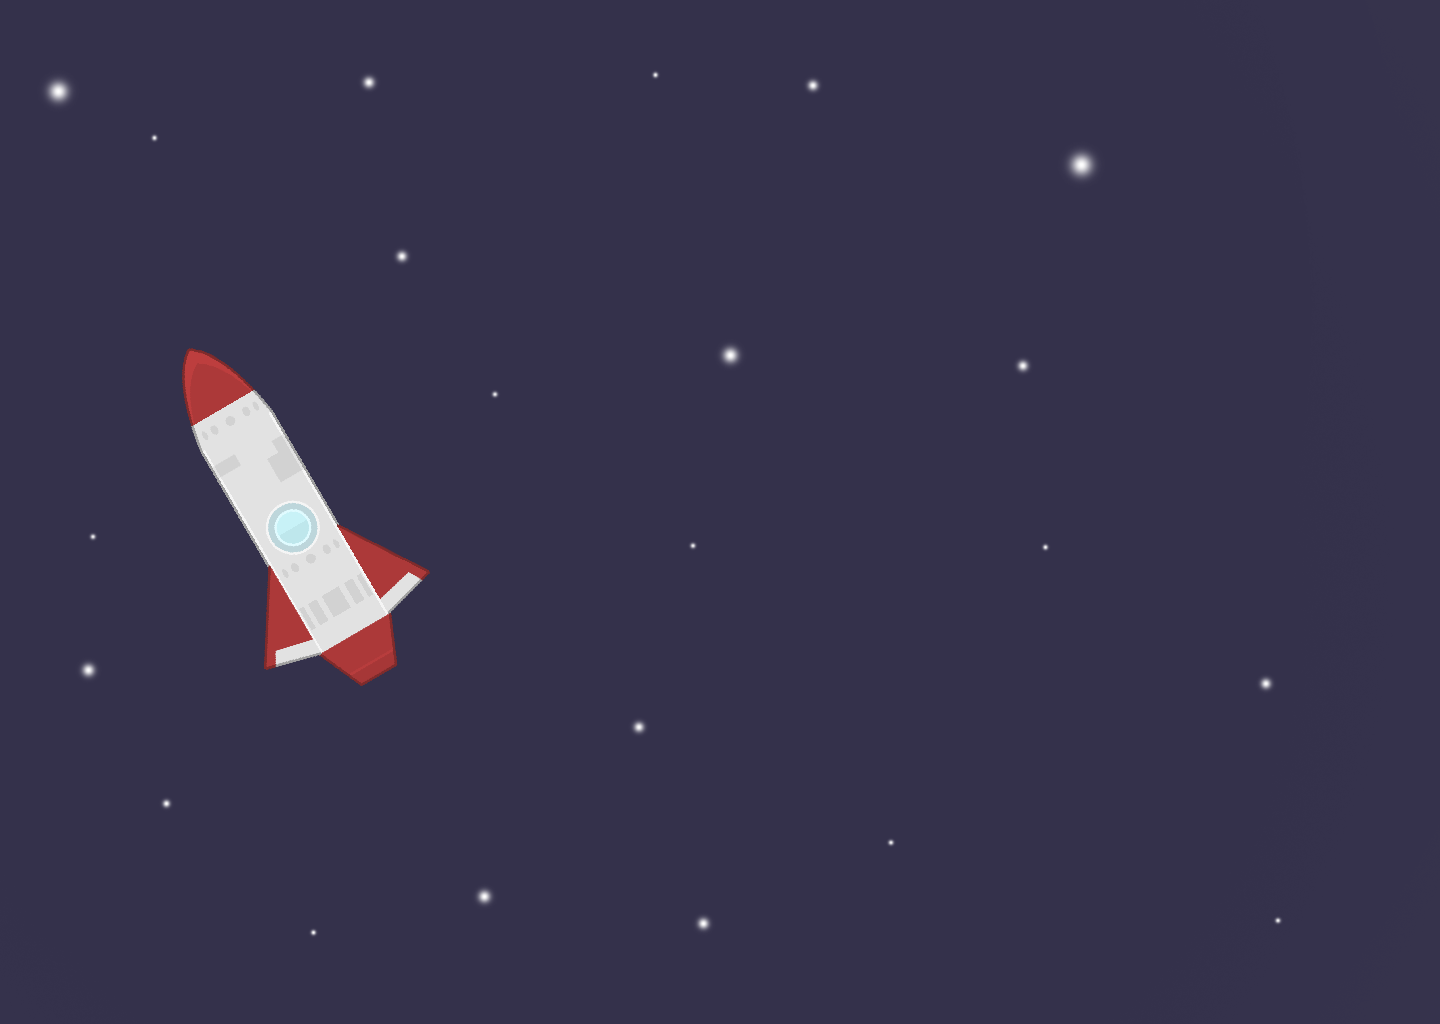
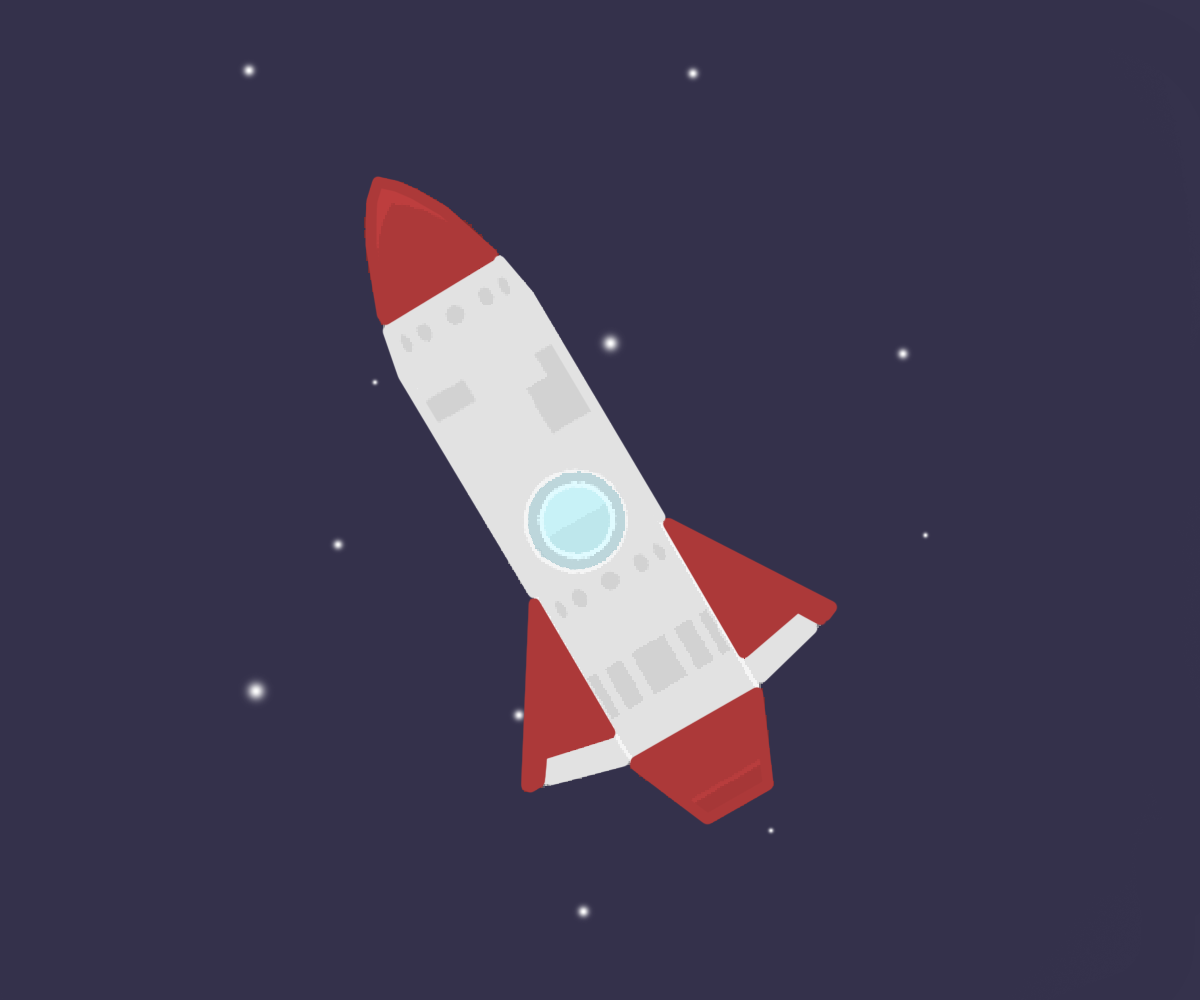
página de login implementada

diff --git a/frontend/src/pages/Login/index.js b/frontend/src/pages/Login/index.js
@@ -1,0 +1,70 @@
+import React, { useState } from 'react'
+import { Link, useHistory } from 'react-router-dom'
+
+import api from '../../services/api'
+import Headers from '../../utils/components/header'
+
+// basta importar o css que já se aplica
+import './styles.css'
+
+//import logoImg from '../../assets/logo.svg'
+import rocket from '../../assets/rocket.png'
+
+import utils from '../../utils'
+
+export default function Login() {
+    const [email, setEmail] = useState('')
+    const [senha, setSenha] = useState('')
+    const history = useHistory()
+
+    async function handleLogin(e) {
+        e.preventDefault()
+
+        if (!email || !senha) {
+            alert('Digite email e senha')
+            return
+        }
+
+
+        try {
+            const response = await api.post('login', { email, senha })
+        
+        
+            localStorage.setItem('email', email)
+            localStorage.setItem('token', response.data.token)
+
+            history.push('/meu_perfil')
+        } catch (error) {
+            alert('Email ou senha incorretos')
+        }
+        
+
+    }
+
+    return (
+        // jsx aqui
+        <div >
+
+            <Headers tipo='vazio'></Headers>
+            <img className='rocket' src={rocket} alt='supermoon'></img>
+
+            <aside className='loginContainer'>
+                <form onSubmit={handleLogin}>
+                    <input className='emailInput'
+                        placeholder="email"
+                        value={email}
+                        onChange={e => setEmail(e.target.value)}></input>
+                    <input type='password' className='senhaInput'
+                        placeholder="senha"
+                        value={senha}
+                        onChange={e => setSenha(e.target.value)}></input>
+
+                    <button className="button" type="submit">Entrar</button>
+                </form>
+                <h1>Não tem uma conta? <Link className='linkCadastro' to='/cadastro'>Cadastre-se</Link></h1>
+
+            </aside>
+        </div>
+
+    )
+}

diff --git a/frontend/src/pages/Login/styles.css b/frontend/src/pages/Login/styles.css
@@ -1,0 +1,101 @@
+
+
+
+
+.rocket {
+    margin-left: 50px;
+    margin-top: 80px;
+    width: 50%;
+}
+
+.loginContainer {
+    position: relative;
+    margin-top: 120px;
+    margin-right: 250px;
+    height: 100%;
+    width: 30%;
+    float: right;
+    border: solid 2px white;
+    border-radius: 15px;
+    padding: 150px;
+    background-color: white;
+    align-items: center;
+    margin-bottom: 20px;
+
+    box-sizing: content-box;
+}
+
+
+
+.emailInput {
+    margin-top: 100px;
+    width: 100%;
+    display: inline-block;
+    border: 2px solid #dcdce6;
+    background-color: rgb(247, 244, 244);
+
+}
+
+.senhaInput {
+    margin-top: 10px;
+    width: 100%;
+    border: 2px solid #dcdce6;
+    background-color: rgb(247, 244, 244);
+
+}
+
+.button {
+    margin-top: 50px;
+}
+h1 {
+    text-align: center;
+    margin-top: 10%;
+
+}
+
+.linkCadastro {
+    text-decoration: none;
+}
+
+@media(max-width: 1025px) {
+    h1 {
+        margin-bottom: 20px;
+    }
+    .rocket {
+        width: 70%;
+    }
+    .loginContainer {
+        height: auto;
+        width: 80%;
+        float: none;
+        margin: auto;
+        text-align: center;
+        padding: 10px;
+    }
+    .button {
+        position: relative;
+        margin-top: 10px;
+        margin-bottom: 10px;
+    }
+
+    input {
+        margin-bottom: 0px;
+    }
+}
+
+@media(min-width:1026px) {
+    .loginContainer {
+        display: inline-block;
+        margin-top: 100px;
+        margin-left: 80px;
+        margin-right: 150px;
+        height: 37vw;
+        width: 30%;
+        padding: 30px;
+    }
+    .rocket {
+        align-items: center;
+        width: 35%;
+        margin-top: 100px;
+    }
+}

diff --git a/frontend/src/routes.js b/frontend/src/routes.js
@@ -3,13 +3,14 @@ import { BrowserRouter, Route, Switch } from 'react-router-dom'
 
 import Inicial from './pages/Inicial'
 import Cadastro from './pages/Cadastro'
-
+import Login from './pages/Login'
 
 export default function Routes() {
     return (
         <BrowserRouter>
             <Switch>
                 <Route path="/" exact component={Inicial}></Route>
+                <Route path="/login" component={Login}></Route>
                 <Route path="/cadastro" component={Cadastro}></Route>
 
             </Switch>

diff --git a/frontend/src/utils/index.js b/frontend/src/utils/index.js
@@ -1,0 +1,11 @@
+
+module.exports = {
+    backendStatus(response) {
+        if(response.status > 302) {
+            alert(response)
+            return false
+        } else {
+            return true
+        }
+    },
+}
